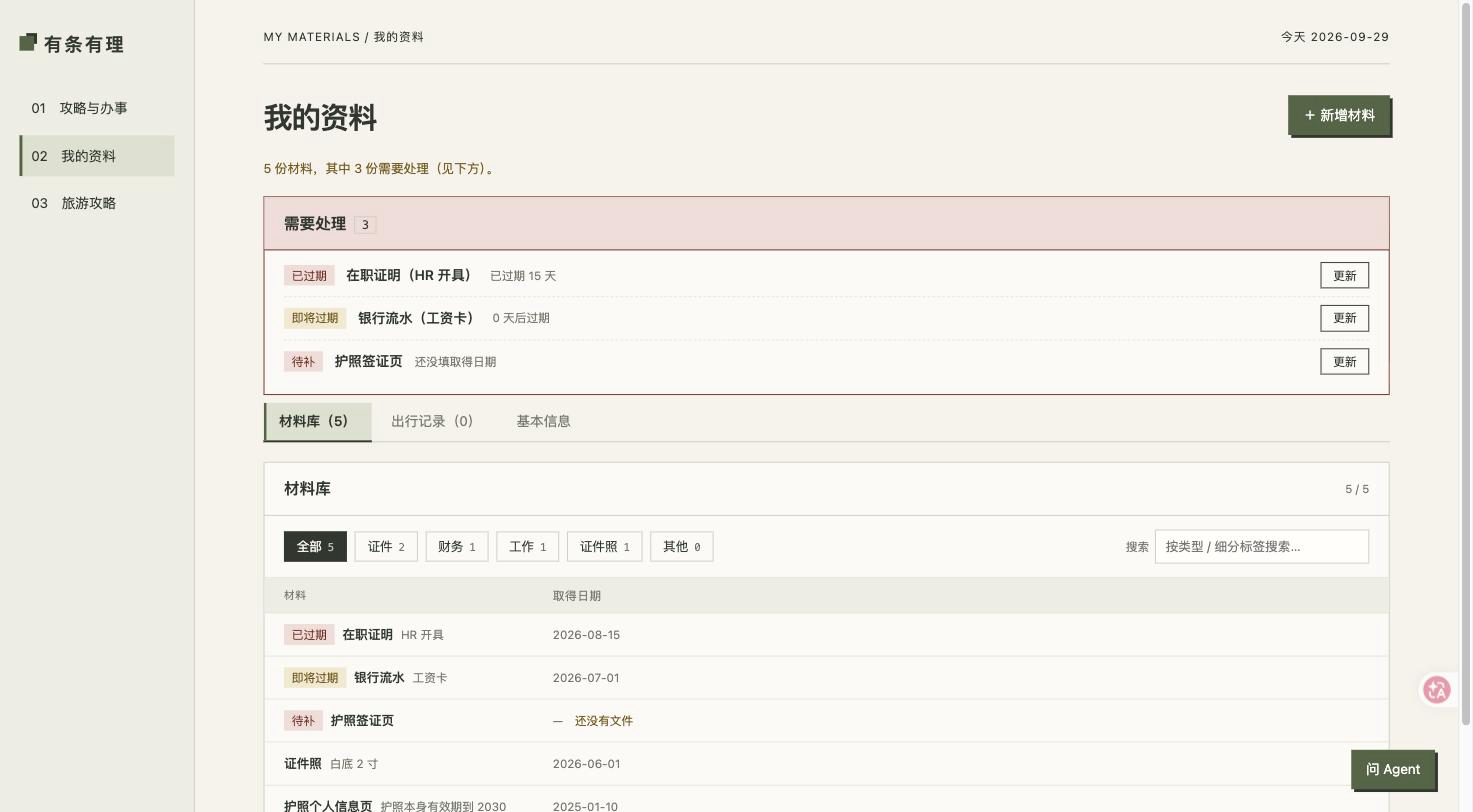
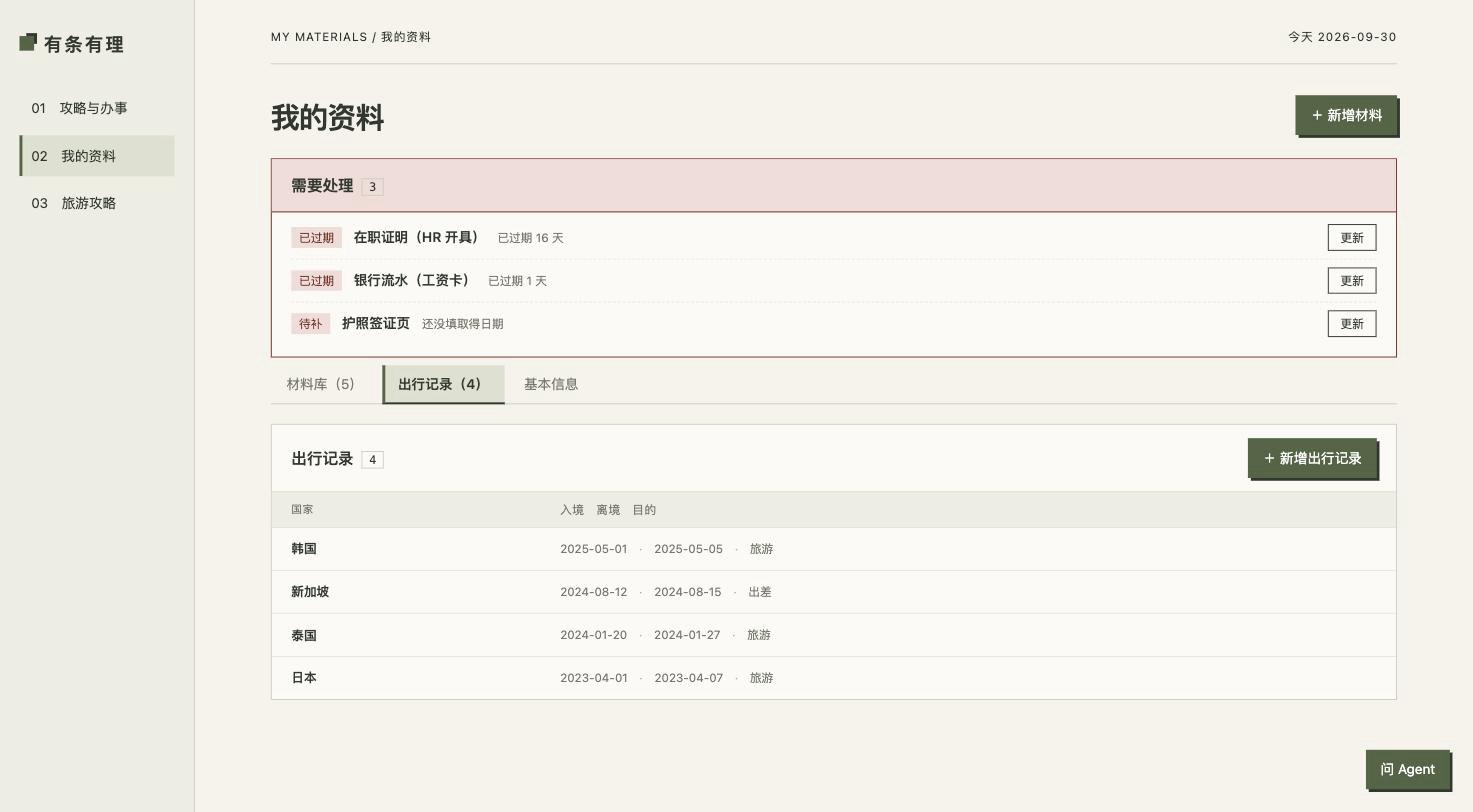
docs(readme): lead with the pain points, add agent install, walk through a Schengen visa
INSTALL.md is written for an agent: the user sends Claude Code the link and
it installs everything except the Chrome extension, which needs the user.

diff --git a/src/api/demo.py b/src/api/demo.py
@@ -36,7 +36,17 @@ DEMO_PROFILE = {
     "family": {"marital_status": "single"},
     "employment": {"primary_occupation": "computer_science",
                    "current": {"name": "EXAMPLE TECH CO., LTD.", "job_title": "SOFTWARE ENGINEER"}},
+    # 出行记录：加拿大等签证要列出过去每次出境，填过一次以后都能用
+    "travel_history": [
+        {"country": "日本", "entry_date": "2023-04-01", "exit_date": "2023-04-07", "purpose": "旅游"},
+        {"country": "泰国", "entry_date": "2024-01-20", "exit_date": "2024-01-27", "purpose": "旅游"},
+        {"country": "新加坡", "entry_date": "2024-08-12", "exit_date": "2024-08-15", "purpose": "出差"},
+        {"country": "韩国", "entry_date": "2025-05-01", "exit_date": "2025-05-05", "purpose": "旅游"},
+    ],
 }
+
+# 示例办事里已经做完的步骤：进度页上能看到进度
+DEMO_DONE_STEPS = ["s-choose-country"]
 
 
 # 示例办事预先回答的问题：让材料清单按"在职、去法国"收窄，页面上能看到材料对上的效果
@@ -75,6 +85,10 @@ def build_demo_root(root: Path, today: date) -> Path:
     from core.trip import merge_trip
 
     track.trip = merge_trip(track.trip, DEMO_TRIP)
+    from core.tracks import set_step_done
+
+    for step in DEMO_DONE_STEPS:
+        set_step_done(track, step, True, today)
     hotel = root / "other" / "demo-hotel-booking.txt"
     hotel.parent.mkdir(parents=True, exist_ok=True)
     hotel.write_text(DEMO_HOTEL, encoding="utf-8")

diff --git a/README.md b/README.md
@@ -1,106 +1,117 @@
 # 有条有理
 
-**办签证、领补贴，把散在各处的攻略整理成一张清单，一步步照着做。**
+一个装在自己电脑上的办事助手：把签证、补贴这类事的攻略、材料和官网填表串在一起，Agent 帮你跑腿。
 
-![攻略库和正在办的事](docs/screenshots/home.png)
+![首页](docs/screenshots/home.png)
 
-<sub>截图里的资料都是虚构的。</sub>
+<sub>本页截图里的资料都是虚构的。</sub>
 
-## 它解决什么问题
+## 为什么做这个
 
-准备办一件事的时候，你大概会经历这些：
+办签证时，最让人不想动的往往是这三件事：
 
-- 在小红书翻了十几篇帖子，说法各不相同，不知道该信哪篇；
-- 材料一大堆，哪份过期了、哪份还没开，全靠脑子记；
-- 到官网填表，护照号、地址、工作经历又要一格一格敲一遍。
+1. **攻略太散。** 小红书上搜了一圈、收藏了几十条笔记，真要办的时候翻不过来，几篇的说法还对不上。
+2. **同样的材料每次都要重新找。** 护照、流水、在职证明，每办一次事就翻一遍文件夹；哪份过期了，也要一份份看。
+3. **官网填表太慢。** 姓名、护照号、地址要一格一格敲，还有些信息平时根本不会记，比如加拿大签证要填过去每一次出境记录。
 
-有条有理就是为这几件事做的。它是一个**装在你自己电脑上**的小工具，用浏览器打开就能用。
+有条有理把这几步连起来：
 
-## 以办一次申根签证为例
+- 贴几条笔记链接，Agent 读完，整理成一份攻略：分几步、每步要什么材料、哪几篇说法有冲突。
+- 材料和基本信息只录一次。下次办别的事，已有的材料自动对上，快过期的会提醒。出行记录填过一次就一直在。
+- 到官网上点一下，插件把认得的格子填好，认不出的交给 Agent 补。
 
-**1. 挑一份攻略，点"开始办"。** 攻略先问你几个问题，比如在职还是学生、去哪个国家，然后只留下和你有关的步骤和材料。
+## 安装
 
-**2. 按开始清单准备。** 最上面有一张三步的小清单：回答问题 → 放进邀请函、酒店订单这些和行程有关的材料 → 整理这次行程。你也可以直接关联桌面上早就建好的"申根签证"文件夹，不用把文件再传一遍。
+### 交给 Agent 装（推荐）
 
-![办事页和开始清单](docs/screenshots/track.png)
+如果你用 [Claude Code](https://claude.com/claude-code)，在终端里打开它，发这句话：
 
-**3. 让 Agent 帮你整理行程。** 用一句话说"11 月 2 日到 9 日去巴黎玩，住某某酒店"，或者让它读你勾选的订单和邀请函，它会把目的、日期、住处整理好，**你确认之后才保存**。
+> 按 https://github.com/NowhereMan-in-Galaxy/personal-assistant/blob/main/INSTALL.md 帮我装好有条有理
 
-![这次行程](docs/screenshots/trip.png)
+它会下载项目、装好依赖、问你资料想放在哪、启动，最后告诉你怎么装 Chrome 插件（这一步要你自己点三下）。装完说一句"带我上手"，它会接着带你挑攻略、登记材料。
 
-**4. 看材料缺什么。** 你之前登记过的护照、流水、在职证明会自动对上；右边「材料一览」告诉你哪些已经有、哪些过期了、还缺什么。
+目前只在 Mac 上的 Claude Code 里完整走过这个流程。其他 Agent 也可以试，它们会读同一份 [`INSTALL.md`](./INSTALL.md)。
 
-**5. 到官网填表。** 装上 Chrome 插件，在官网上点"填本页"，姓名、生日、护照、地址、这次的行程日期几秒钟就填好。填不了的格子标红框，你自己补。**签名、付款、提交永远由你来点。**
+### 自己装
 
-材料和基本信息只需要录一次，下次办别的事还能接着用。
+<details><summary>展开看步骤（大约 10 分钟）</summary>
 
-## 你的资料只在你的电脑上
+1. 装 [uv](https://docs.astral.sh/uv/)（它会顺便准备好 Python）。打开「终端」，运行：
 
-- 你的材料文件、基本信息、办事进度，都存在你自己电脑上的一个文件夹里，**不会上传到任何地方**。这个文件夹也可以放在 iCloud 或 Google Drive 里，方便多台电脑同步。
-- 仓库里只有攻略和代码。攻略放在 [`community/`](./community/) 里，大家一起维护，**不含任何个人信息**。
-- 软件本身不调用任何 AI，也不需要注册账号。Agent 功能是可选的，用的是你自己电脑上的 Claude Code。
+   ```bash
+   curl -LsSf https://astral.sh/uv/install.sh | sh
+   ```
 
-## 安装（大约 10 分钟）
+   装完关掉终端再打开。Windows 用 PowerShell 运行 `powershell -ExecutionPolicy ByPass -c "irm https://astral.sh/uv/install.ps1 | iex"`。
 
-需要：一台 Mac（Windows 和 Linux 应该也能用，但测试得少），以及 Chrome 浏览器。
+2. 在本页上方点 **Code → Download ZIP**，解压，比如放到「文稿」里（文件夹叫 `personal-assistant-main`）。会用 git 的话也可以 `git clone`。
 
-**第 1 步：装 uv**（一个帮你准备 Python 环境的小工具，只装一次）
+3. 启动（第一次要等一两分钟）：
 
-打开「终端」（在启动台里搜"终端"），粘贴下面这行，按回车：
+   ```bash
+   cd ~/Documents/personal-assistant-main
+   uv run youtiao
+   ```
 
-```bash
-curl -LsSf https://astral.sh/uv/install.sh | sh
-```
+   浏览器会打开 <http://127.0.0.1:8000>。以后每次用都运行这两行，关掉终端就停了。
 
-装完后把终端关掉，再重新打开一次。
+4. Chrome 插件：地址栏打开 `chrome://extensions`，打开「开发者模式」，点「加载已解压的扩展程序」，选项目里的 `extension` 文件夹。
 
-<details><summary>Windows 用户</summary>
+5. Agent 功能要装好 [Claude Code](https://claude.com/claude-code) 并登录；让 Agent 读小红书帖子还要 [Claude in Chrome](https://claude.ai/chrome)。不装也能用其他功能。
 
-打开 PowerShell，运行：
-
-```powershell
-powershell -ExecutionPolicy ByPass -c "irm https://astral.sh/uv/install.ps1 | iex"
-```
+想先看看效果，运行 `uv run youtiao --demo`，打开的是一套虚构资料。
 
 </details>
 
-**第 2 步：下载这个项目**
+## 以一次申根签证为例
 
-在本页上方点绿色的 **Code → Download ZIP**，解压到你喜欢的位置，比如「文稿」。解压出来的文件夹叫 `personal-assistant-main`。会用 git 的话也可以 `git clone`。
+### 1. 创建攻略
 
-**第 3 步：启动**
+在攻略库点「+ 新建攻略」，贴几条小红书笔记的分享链接。Agent 在不登录的浏览器里读这些帖子（一次最多 6 条，不碰你的账号），整理成一份攻略：
 
-在终端里进入刚才解压的文件夹，然后启动。第一次启动会自动下载需要的东西，要等一两分钟：
+- 先问你几个会影响清单的问题，比如在职还是学生、去哪国递签；
+- 分阶段列出步骤，每一步要准备什么材料、在哪办；
+- 每一条都附原帖里的原话。几篇说法不一样的地方单独标出来，由你判断。
 
-```bash
-cd ~/Documents/personal-assistant-main
-uv run youtiao
-```
+![整理好的申根攻略](docs/screenshots/guide.png)
 
-浏览器会自动打开 <http://127.0.0.1:8000>。以后每次想用，都在终端里运行这两行；用完直接关掉终端窗口就行。
+仓库里已经有几份整理好的攻略（见下面[现有攻略](#现有攻略)），有你要办的事就可以直接用。
 
-**先看看效果？** 运行 `uv run youtiao --demo`，打开的是一套虚构的资料，随便点，不会影响你自己的数据。
+### 2. 准备材料
 
-**第一次正式使用**：先到「我的资料」登记几份常用材料（护照、流水……），填一下基本信息，再去攻略库挑一份"开始办"。右下角的「问 Agent」里点"带我上手"，它会一步步带你走一遍（需要下面的 Agent 功能）。
+「我的资料」里登记护照、流水、在职证明这些常用材料，填上取得日期。过期、快过期的会排在最上面。基本信息和出行记录也在这里，填一次，以后办什么事都能用。
 
-## 可选功能
+![我的资料和出行记录](docs/screenshots/materials.png)
 
-### Chrome 填表插件
+挑一份攻略点「开始办」，和你无关的步骤和材料会自动隐藏，已经登记的材料自动对上。最上面有一张开始清单：回答问题 → 放进邀请函、酒店订单这些这次行程的材料 → 整理这次行程。如果你早就在桌面建了一个"申根签证"文件夹，直接关联它就行，不用再传一遍。
 
-1. 在 Chrome 地址栏打开 `chrome://extensions`，打开右上角的「开发者模式」。
-2. 点「加载已解压的扩展程序」，选项目里的 `extension` 文件夹。
-3. 点工具栏上的插件图标，右边会打开侧边栏。到要填的官网，先在顶部选「这件事」，再点「填本页」。
+![开始清单](docs/screenshots/track.png)
 
-插件只和你电脑上的有条有理通信，所以用的时候 `uv run youtiao` 要开着。有些网站的条款禁止自动填表，比如澳洲 ImmiAccount，侧边栏会先把条款原文给你看，由你决定用不用。
+「这次行程」可以自己填，也可以交给 Agent：说一句"11 月 2 日到 9 日去巴黎玩，自己出钱"，或者让它读你勾选的订单和邀请函。它把目的、日期、住处整理好，你确认之后才保存。填官网时要用的就是这些。
 
-### Agent 功能
+![这次行程](docs/screenshots/trip.png)
 
-「让 Agent 整理」行程、「新建攻略」和右下角的「问 Agent」需要：
+### 3. Agent 填表
 
-- 装好 [Claude Code](https://claude.com/claude-code) 并登录；
-- 如果要让它读小红书帖子来整理攻略，还要装 [Claude in Chrome](https://claude.ai/chrome) 扩展。它只用不登录的浏览器读帖子，不会碰你的账号。
+装好 Chrome 插件后，在官网上打开侧边栏，选好是哪件事，点「填本页」。姓名、生日、护照、地址、这次的行程日期，一两秒就填好，填过的格子套上黄色虚线框，方便你核对：
 
-装好后重启有条有理，页面会自动发现它。不装也不影响其他功能。
+![填好的表格](docs/screenshots/fill.png)
+
+插件认不出的格子会标红框，侧边栏里点「交给 Agent」，Agent 看着这些格子，用你的资料补上，缺的会问你。选完"已婚"才冒出来的配偶栏这类，插件会自己再填一轮。
+
+签名、付款、提交、验证码，永远由你自己来。条款禁止自动填表的网站（比如澳洲 ImmiAccount），侧边栏会先把条款原文给你看，推荐你用「填表对照」页自己复制粘贴。
+
+### 4. 跟踪进度
+
+办事页按阶段列出每一步，做完勾上。每一步下面是这一步要交的材料，缺的可以直接上传。右边「材料一览」告诉你还缺什么、哪些要重开。有时间要求的步骤（比如"社保满 6 个月才能申请"）可以导出到日历。
+
+![跟踪进度](docs/screenshots/progress.png)
+
+## 你的资料只在你的电脑上
+
+- 材料文件、基本信息、办事进度都存在你电脑上的一个文件夹里，不会上传到任何地方。这个文件夹也可以放在 iCloud 或 Google Drive 里，方便多台电脑同步。
+- 仓库里只有代码和攻略。攻略在 [`community/`](./community/) 里，大家一起维护，不含个人信息。
+- 软件本身不调用 AI，也不用注册账号。Agent 功能用的是你自己电脑上的 Claude Code。
 
 ## 现有攻略
 
@@ -114,42 +125,30 @@ uv run youtiao
 | 在美 F-1 学生申请阿根廷旅游签证 | 签证 |
 | 杭州应届生补贴（青荷礼包 / 生活 / 租房 / 就业） | 补贴 |
 
-攻略整理自公开帖子和官网，**会过时**。每份都写了资料截至哪天，办之前请以官网为准。
-
-没有你要办的事？点攻略库的「+ 新建攻略」，贴几篇帖子的链接，Agent 会帮你整理成一份新攻略，每一条都附上原帖里的原话，说法冲突的地方会单独标出来。
-
-<details><summary>贴帖子整理攻略的样子</summary>
-
-![新建攻略](docs/screenshots/new-guide.png)
-
-</details>
+攻略整理自公开帖子和官网，会过时。每份都写了资料截至哪天，办之前请以官网为准。
 
 ## 常见问题
 
 **要花钱吗？**
-有条有理本身免费。Agent 功能用的是 Claude Code，要有 Claude 的订阅或者 API 额度。
+有条有理本身免费。Agent 功能用的是 Claude Code，需要 Claude 的订阅或 API 额度。
 
-**我的资料存在哪？**
-默认存在项目文件夹里的 `materials/`。想换地方（比如 iCloud），把 `config.example.yaml` 复制一份改名为 `config.yaml`，改里面的 `materials_root`。
+**资料存在哪？**
+默认在项目文件夹里的 `materials/`。想换地方，把 `config.example.yaml` 复制成 `config.yaml`，改里面的 `materials_root`。
 
-**怎么更新到新版本？**
-重新下载 ZIP 覆盖，或者用 git 的话运行 `git pull`。你的资料在 `materials/` 或你自己指定的文件夹里，不会被覆盖。
+**怎么更新？**
+用 git 装的运行 `git pull`；下载 ZIP 的重新下载覆盖。你的资料不在代码里，不会被覆盖。
 
-**攻略写错了、过时了怎么办？**
-欢迎[提一个 issue](../../issues/new/choose)（选"攻略过时了"），或者直接改好 `community/guides/` 里的文件提交 Pull Request，见 [`CONTRIBUTING.md`](./CONTRIBUTING.md)。
-
-**它会替我提交申请吗？**
-不会。签名、付款、提交、验证码，永远由你自己来。
+**攻略写错了、过时了？**
+[提一个 issue](../../issues/new/choose)，或者直接改 `community/guides/` 里的文件提 Pull Request，见 [`CONTRIBUTING.md`](./CONTRIBUTING.md)。
 
 ## 边界
 
 - 这不是法律或移民建议。攻略可能过时或有错，以官网和使馆为准。
 - 不代你签名、付款、提交，也不处理验证码。
-- 使用条款禁止自动化的网站，会先告诉你条款原文和风险，推荐你用「填表对照」页自己复制粘贴。
 
 ## 参与
 
-想分享攻略、报告问题或一起开发，请看 [`CONTRIBUTING.md`](./CONTRIBUTING.md)。
+分享攻略、报告问题、一起写代码，都见 [`CONTRIBUTING.md`](./CONTRIBUTING.md)。
 
 ## 许可证
 
@@ -157,4 +156,4 @@ uv run youtiao
 
 ---
 
-**English**: *Youtiao Youli* ("well organized") turns scattered visa and paperwork guides into step-by-step checklists, matches them against the documents you already have, and fills common fields on official application sites through a Chrome extension. Everything personal stays on your computer; guides are shared in `community/`. The app itself calls no AI model; optional agent features use your own Claude Code. The interface is in Chinese for now.
+**English**: *Youtiao Youli* is a local assistant for visa and paperwork errands. It turns scattered social-media guides into step-by-step checklists, keeps your documents and personal details in one place so they are matched automatically next time, and fills common fields on official application sites through a Chrome extension, with an agent (Claude Code) handling the rest. Everything personal stays on your computer. To install, ask Claude Code to follow [`INSTALL.md`](./INSTALL.md). The interface is in Chinese for now.

diff --git a/INSTALL.md b/INSTALL.md
@@ -1,0 +1,101 @@
+# 安装说明（写给 Agent）
+
+用户把这个仓库的链接发给你，让你帮忙安装「有条有理」时，照这份说明一步步做。这份说明在 **macOS 上的 Claude Code** 里完整走过；其他 Agent 或系统大体也能照做，遇到对不上的地方停下来告诉用户。
+
+仓库地址：`https://github.com/NowhereMan-in-Galaxy/personal-assistant`
+
+## 规则
+
+- 每一步做之前，用一句话告诉用户你要做什么。需要用户点击、登录、授权的地方，停下来等用户做完。
+- 装东西（uv、Claude in Chrome）之前先问用户同不同意。
+- 不要把用户的任何个人信息写进仓库，也不要替用户提交（git commit / push）。
+- 某一步报错，就把报错原文告诉用户，不要换别的办法硬装。
+
+## 步骤
+
+### 1. 检查 uv
+
+运行 `uv --version`。
+
+没有的话，问用户同意后运行（macOS / Linux）：
+
+```bash
+curl -LsSf https://astral.sh/uv/install.sh | sh
+```
+
+Windows 用 `powershell -ExecutionPolicy ByPass -c "irm https://astral.sh/uv/install.ps1 | iex"`。
+
+装完后当前终端可能还找不到 `uv`，用 `~/.local/bin/uv` 代替，或者请用户重开终端。uv 会自己准备 Python，不需要另外装。
+
+### 2. 下载项目
+
+问用户想放在哪，默认 `~/personal-assistant`。
+
+有 git：
+
+```bash
+git clone https://github.com/NowhereMan-in-Galaxy/personal-assistant.git ~/personal-assistant
+```
+
+没有 git：
+
+```bash
+curl -L -o /tmp/youtiao.zip https://github.com/NowhereMan-in-Galaxy/personal-assistant/archive/refs/heads/main.zip
+unzip -q /tmp/youtiao.zip -d ~ && mv ~/personal-assistant-main ~/personal-assistant
+```
+
+### 3. 装依赖并自检
+
+```bash
+cd ~/personal-assistant
+uv sync
+uv run python -m core.guides
+```
+
+最后一条命令的输出里全是 ✓ 就说明装好了。
+
+### 4. 资料放在哪
+
+问用户："你的材料（护照扫描件、流水这些）想放在哪？默认放在项目里的 `materials/` 文件夹；如果想多台电脑同步，可以放在 iCloud 或 Google Drive 里的一个文件夹。"
+
+- 用默认位置：什么都不用做。
+- 放在别处：把 `config.example.yaml` 复制成 `config.yaml`，把 `materials_root` 改成用户给的**绝对路径**。文件夹不存在就先建好。
+
+### 5. 启动
+
+```bash
+cd ~/personal-assistant && uv run youtiao
+```
+
+这条命令会一直运行，并打开浏览器访问 <http://127.0.0.1:8000>。你可以在后台启动它，确认页面能打开，然后告诉用户：**以后每次用，在终端里运行这一行；关掉终端就停了。**
+
+想先看效果，可以改用 `uv run youtiao --demo`，打开的是一套虚构资料，不会碰用户自己的数据。
+
+### 6. 让 Claude Code 能用项目里的工具
+
+项目里有给 Agent 用的工具（`.mcp.json`）和操作说明（`.claude/skills/`），只有**在项目文件夹里打开的** Claude Code 才会加载。告诉用户：
+
+1. 新开一个终端，运行 `cd ~/personal-assistant && claude`；
+2. Claude Code 问要不要启用 `personal-assistant` 这个 MCP 服务时，选**启用**（选错了可以输入 `/mcp` 重新打开）。
+
+页面上的「让 Agent 整理」「新建攻略」「问 Agent」会自己调用 Claude Code，不需要额外设置，只要用户已经登录过 Claude Code。
+
+### 7. 填表插件（要用户自己点）
+
+Chrome 不允许程序替用户装插件。把下面三步发给用户，把路径换成实际的：
+
+1. Chrome 地址栏打开 `chrome://extensions`，打开右上角的「开发者模式」；
+2. 点「加载已解压的扩展程序」，选 `~/personal-assistant/extension` 文件夹；
+3. 点工具栏上的插件图标打开侧边栏，到官网上点「填本页」。
+
+### 8. 可选：读小红书帖子
+
+「新建攻略」里让 Agent 读小红书帖子，需要 [Claude in Chrome](https://claude.ai/chrome) 扩展。问用户要不要装；不装的话，可以把帖子正文直接粘贴进去。
+
+### 9. 带用户上手
+
+装好后告诉用户：在第 6 步打开的 Claude Code 里说"**带我上手**"，或者在网页右下角「问 Agent」里点"带我上手"。它会问最近要办什么事，帮用户挑攻略、补基本信息、登记材料。
+
+## 装好后给用户的总结
+
+用三四行告诉用户：装在哪、资料放在哪、以后怎么启动（`cd ~/personal-assistant && uv run youtiao`）、插件装了没有。
